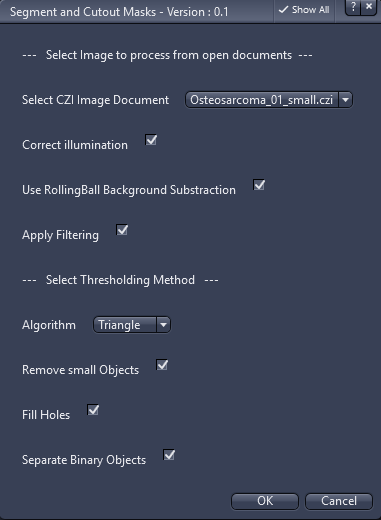
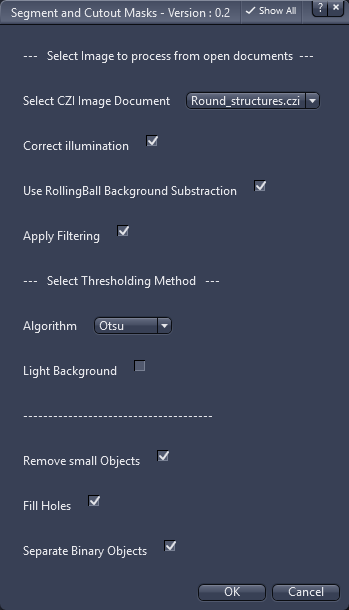
updates

diff --git a/Scripts/Image_Processing/Segment_and_Cutout_Masks.py b/Scripts/Image_Processing/Segment_and_Cutout_Masks.py
@@ -58,6 +58,8 @@ wd.AddCheckbox('useRBsub', 'Use RollingBall Background Substraction', True)
 wd.AddCheckbox('useFilter', 'Apply Filtering', True)
 wd.AddLabel('---   Select Thresholding Method   ---')
 wd.AddDropDown('thmethod', 'Algorithm', thlist, 0)
+wd.AddCheckbox('lightbgrd', 'Light Background', False)
+wd.AddLabel('--------------------------------------')
 wd.AddCheckbox('useRemove', 'Remove small Objects', True)
 wd.AddCheckbox('useFill', 'Fill Holes', True)
 wd.AddCheckbox('useSeparate', 'Separate Binary Objects', True)
@@ -79,6 +81,7 @@ fillHoles = result.GetValue('useFill')
 separateOB = result.GetValue('useSeparate')
 thm = result.GetValue('thmethod')
 useCR = result.GetValue('useCORR')
+lbg = result.GetValue('lightbgrd')
 
 # get the correct thrsehold method
 th_method = thdict[thm]
@@ -129,7 +132,7 @@ if useFT:
 print 'Applying Automated Thresholding ...'
 #th_method = ZenThresholdingMethod.Otsu
 createBinary = True
-invertResult = True
+invertResult = lbg
 img = Zen.Processing.Segmentation.ThresholdAutomatic(img, th_method, createBinary, invertResult, False)
 
 if removeOB:
